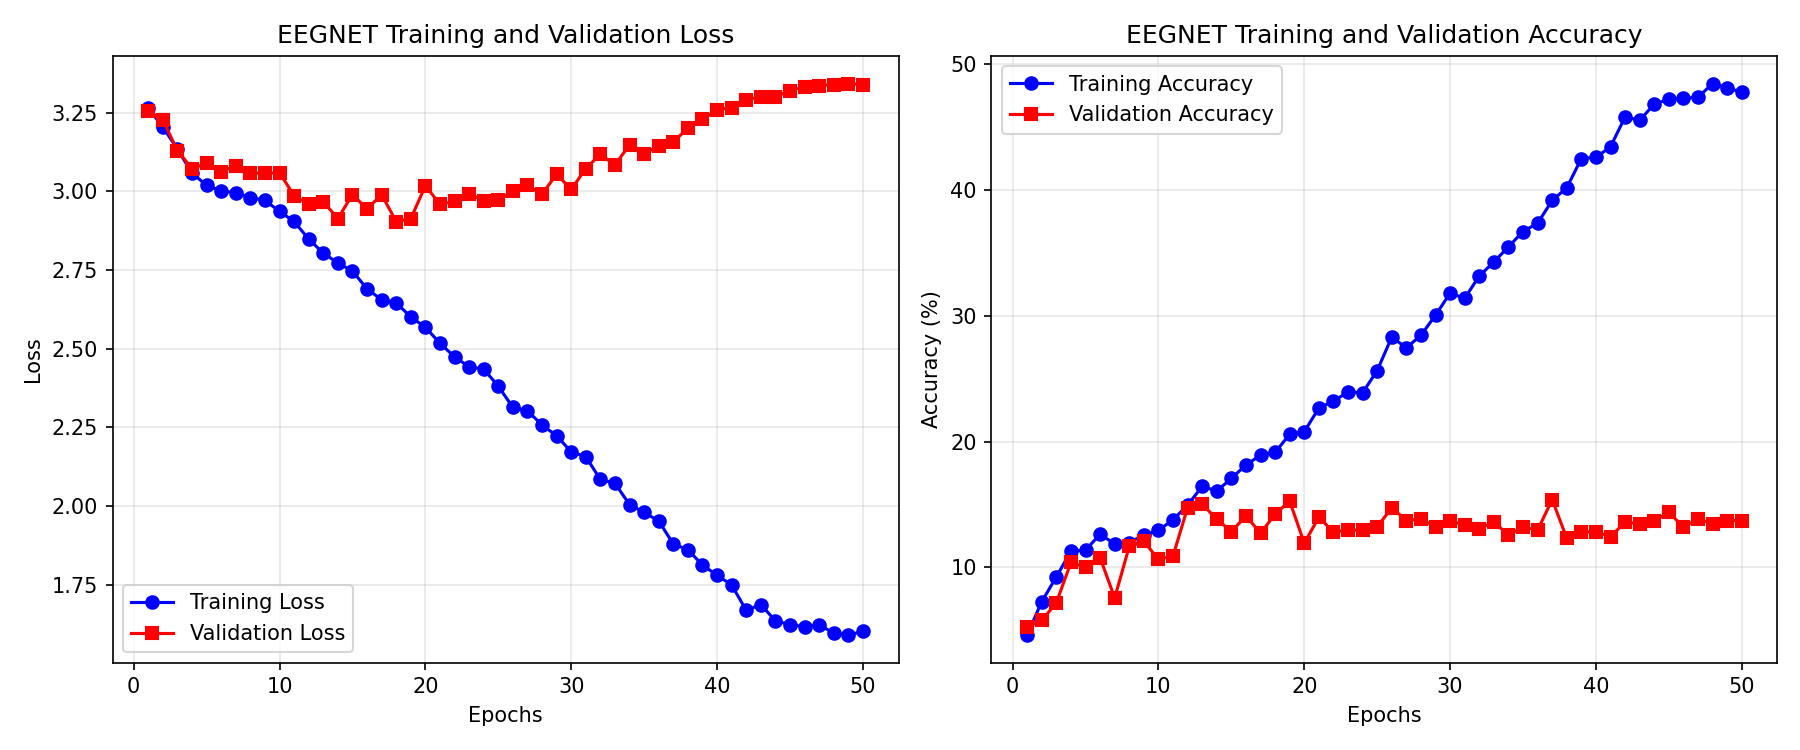
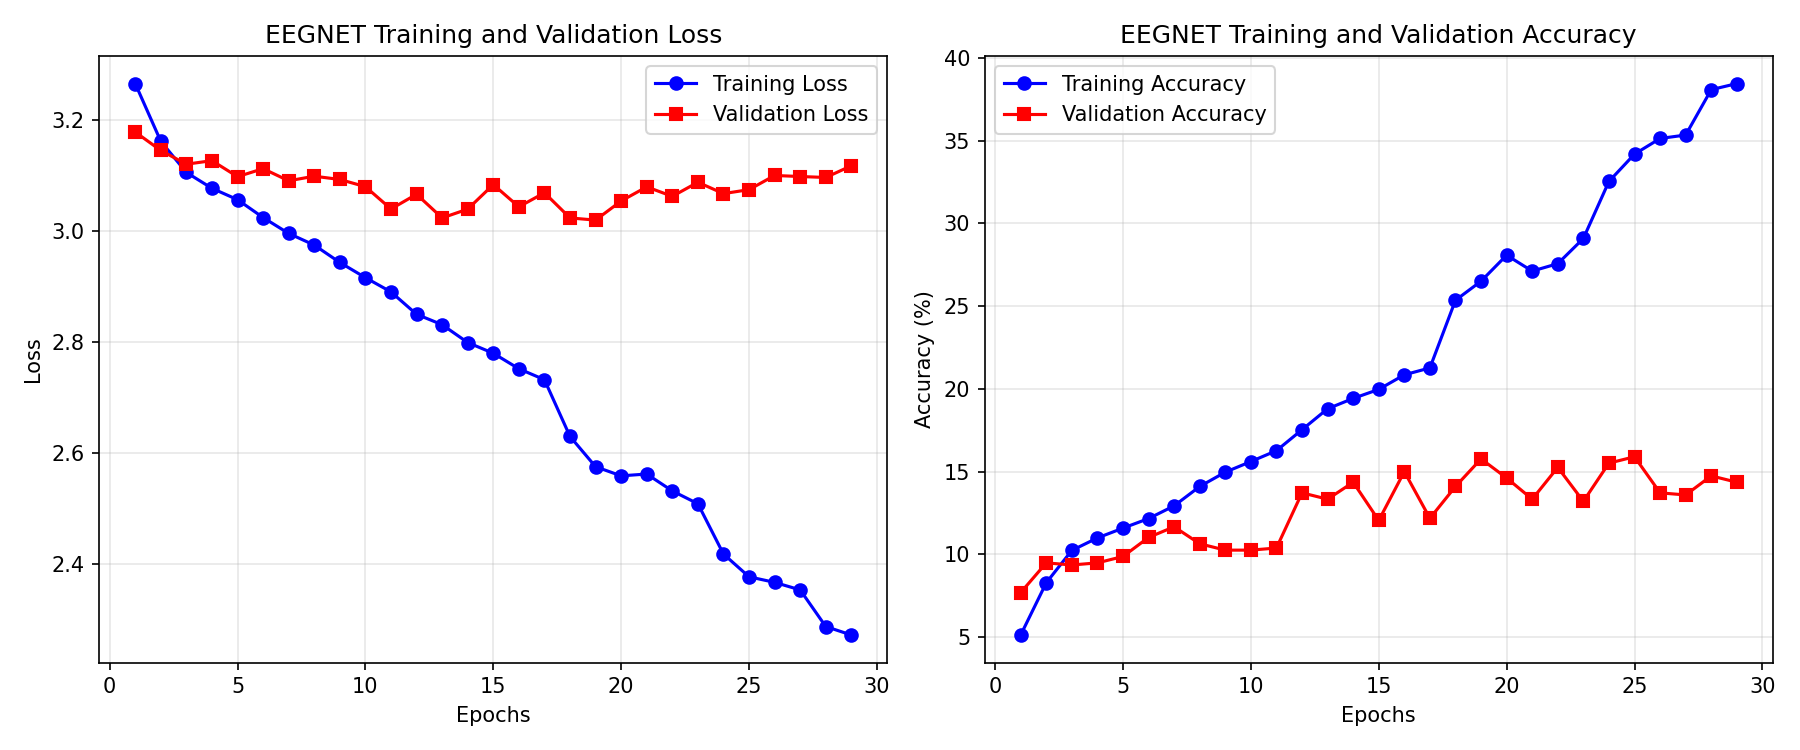
V1.4.2 ReduceLROnPlateau and checkpointing

diff --git a/src/train.py b/src/train.py
@@ -129,21 +129,22 @@ def train_deep_learning_model(model_type, X_train, y_train, X_val, y_val,
     train_loader = DataLoader(train_dataset, batch_size=batch_size, shuffle=True)
     val_loader = DataLoader(val_dataset, batch_size=batch_size, shuffle=False)
     
-    criterion = nn.CrossEntropyLoss()
+    criterion = nn.CrossEntropyLoss(label_smoothing=0.1)
     optimizer = optim.AdamW(model.parameters(), lr=lr, weight_decay=0.02 if model_type == "2d_cnn" else 0.05)
-    scheduler = optim.lr_scheduler.OneCycleLR(
-        optimizer,
-        max_lr=lr,
-        steps_per_epoch=len(train_loader),
-        epochs=num_epochs,
-        pct_start=0.2,  # 20% warmup
-        anneal_strategy='cos',
-        div_factor=10.0,
-        final_div_factor=100.0
+    scheduler = optim.lr_scheduler.ReduceLROnPlateau(
+        optimizer, 
+        mode='min',  # Monitor validation loss (minimize)
+        factor=0.5, 
+        patience=3,  # Wait 3 epochs before reducing learning rate
+        min_lr=1e-6
     )
     
-    best_val_acc = 0.0
+    best_val_loss = float('inf')
     best_epoch = 1
+    
+    # Early Stopping config
+    patience = 10
+    epochs_no_improve = 0
     
     history = {
         'train_loss': [], 'train_acc': [],
@@ -176,9 +177,6 @@ def train_deep_learning_model(model_type, X_train, y_train, X_val, y_val,
             # EEGNet-specific Max-Norm constraints step
             if model_type == "eegnet":
                 apply_max_norm_constraints(model)
-                
-            # Step the OneCycleLR batch-level scheduler
-            scheduler.step()
                 
             train_loss += loss.item() * batch_x.size(0)
             _, predicted = outputs.max(1)
@@ -215,18 +213,26 @@ def train_deep_learning_model(model_type, X_train, y_train, X_val, y_val,
         history['val_loss'].append(epoch_val_loss)
         history['val_acc'].append(epoch_val_acc)
         
-        # OneCycleLR is stepped at the batch level, no epoch-level step needed here
+        # ReduceLROnPlateau scheduler step based on validation loss
+        scheduler.step(epoch_val_loss)
         
         print(f"{epoch:<8}{epoch_train_loss:<12.4f}{epoch_train_acc:<15.2f}{epoch_val_loss:<12.4f}{epoch_val_acc:<15.2f}{epoch_time:<8.1f}")
         
-        # Validation accuracy checkpointing
-        if epoch_val_acc > best_val_acc:
-            best_val_acc = epoch_val_acc
+        # Validation loss checkpointing & Early Stopping
+        if epoch_val_loss < best_val_loss:
+            best_val_loss = epoch_val_loss
             best_epoch = epoch
             torch.save(model.state_dict(), best_model_path)
+            epochs_no_improve = 0
+        else:
+            epochs_no_improve += 1
+            
+        if epochs_no_improve >= patience:
+            print(f"Early stopping triggered! No improvement in validation loss for {patience} consecutive epochs.")
+            break
             
     print("-" * 65)
-    print(f"Best {model_type.upper()} Validation Accuracy: {best_val_acc:.2f}% achieved at Epoch {best_epoch}")
+    print(f"Best {model_type.upper()} Validation Loss: {best_val_loss:.4f} (Accuracy: {history['val_acc'][best_epoch-1]:.2f}%) achieved at Epoch {best_epoch}")
     print(f"Loading optimal model weights from Epoch {best_epoch} (prevents overfitting)...")
     
     # Reload optimal model weights